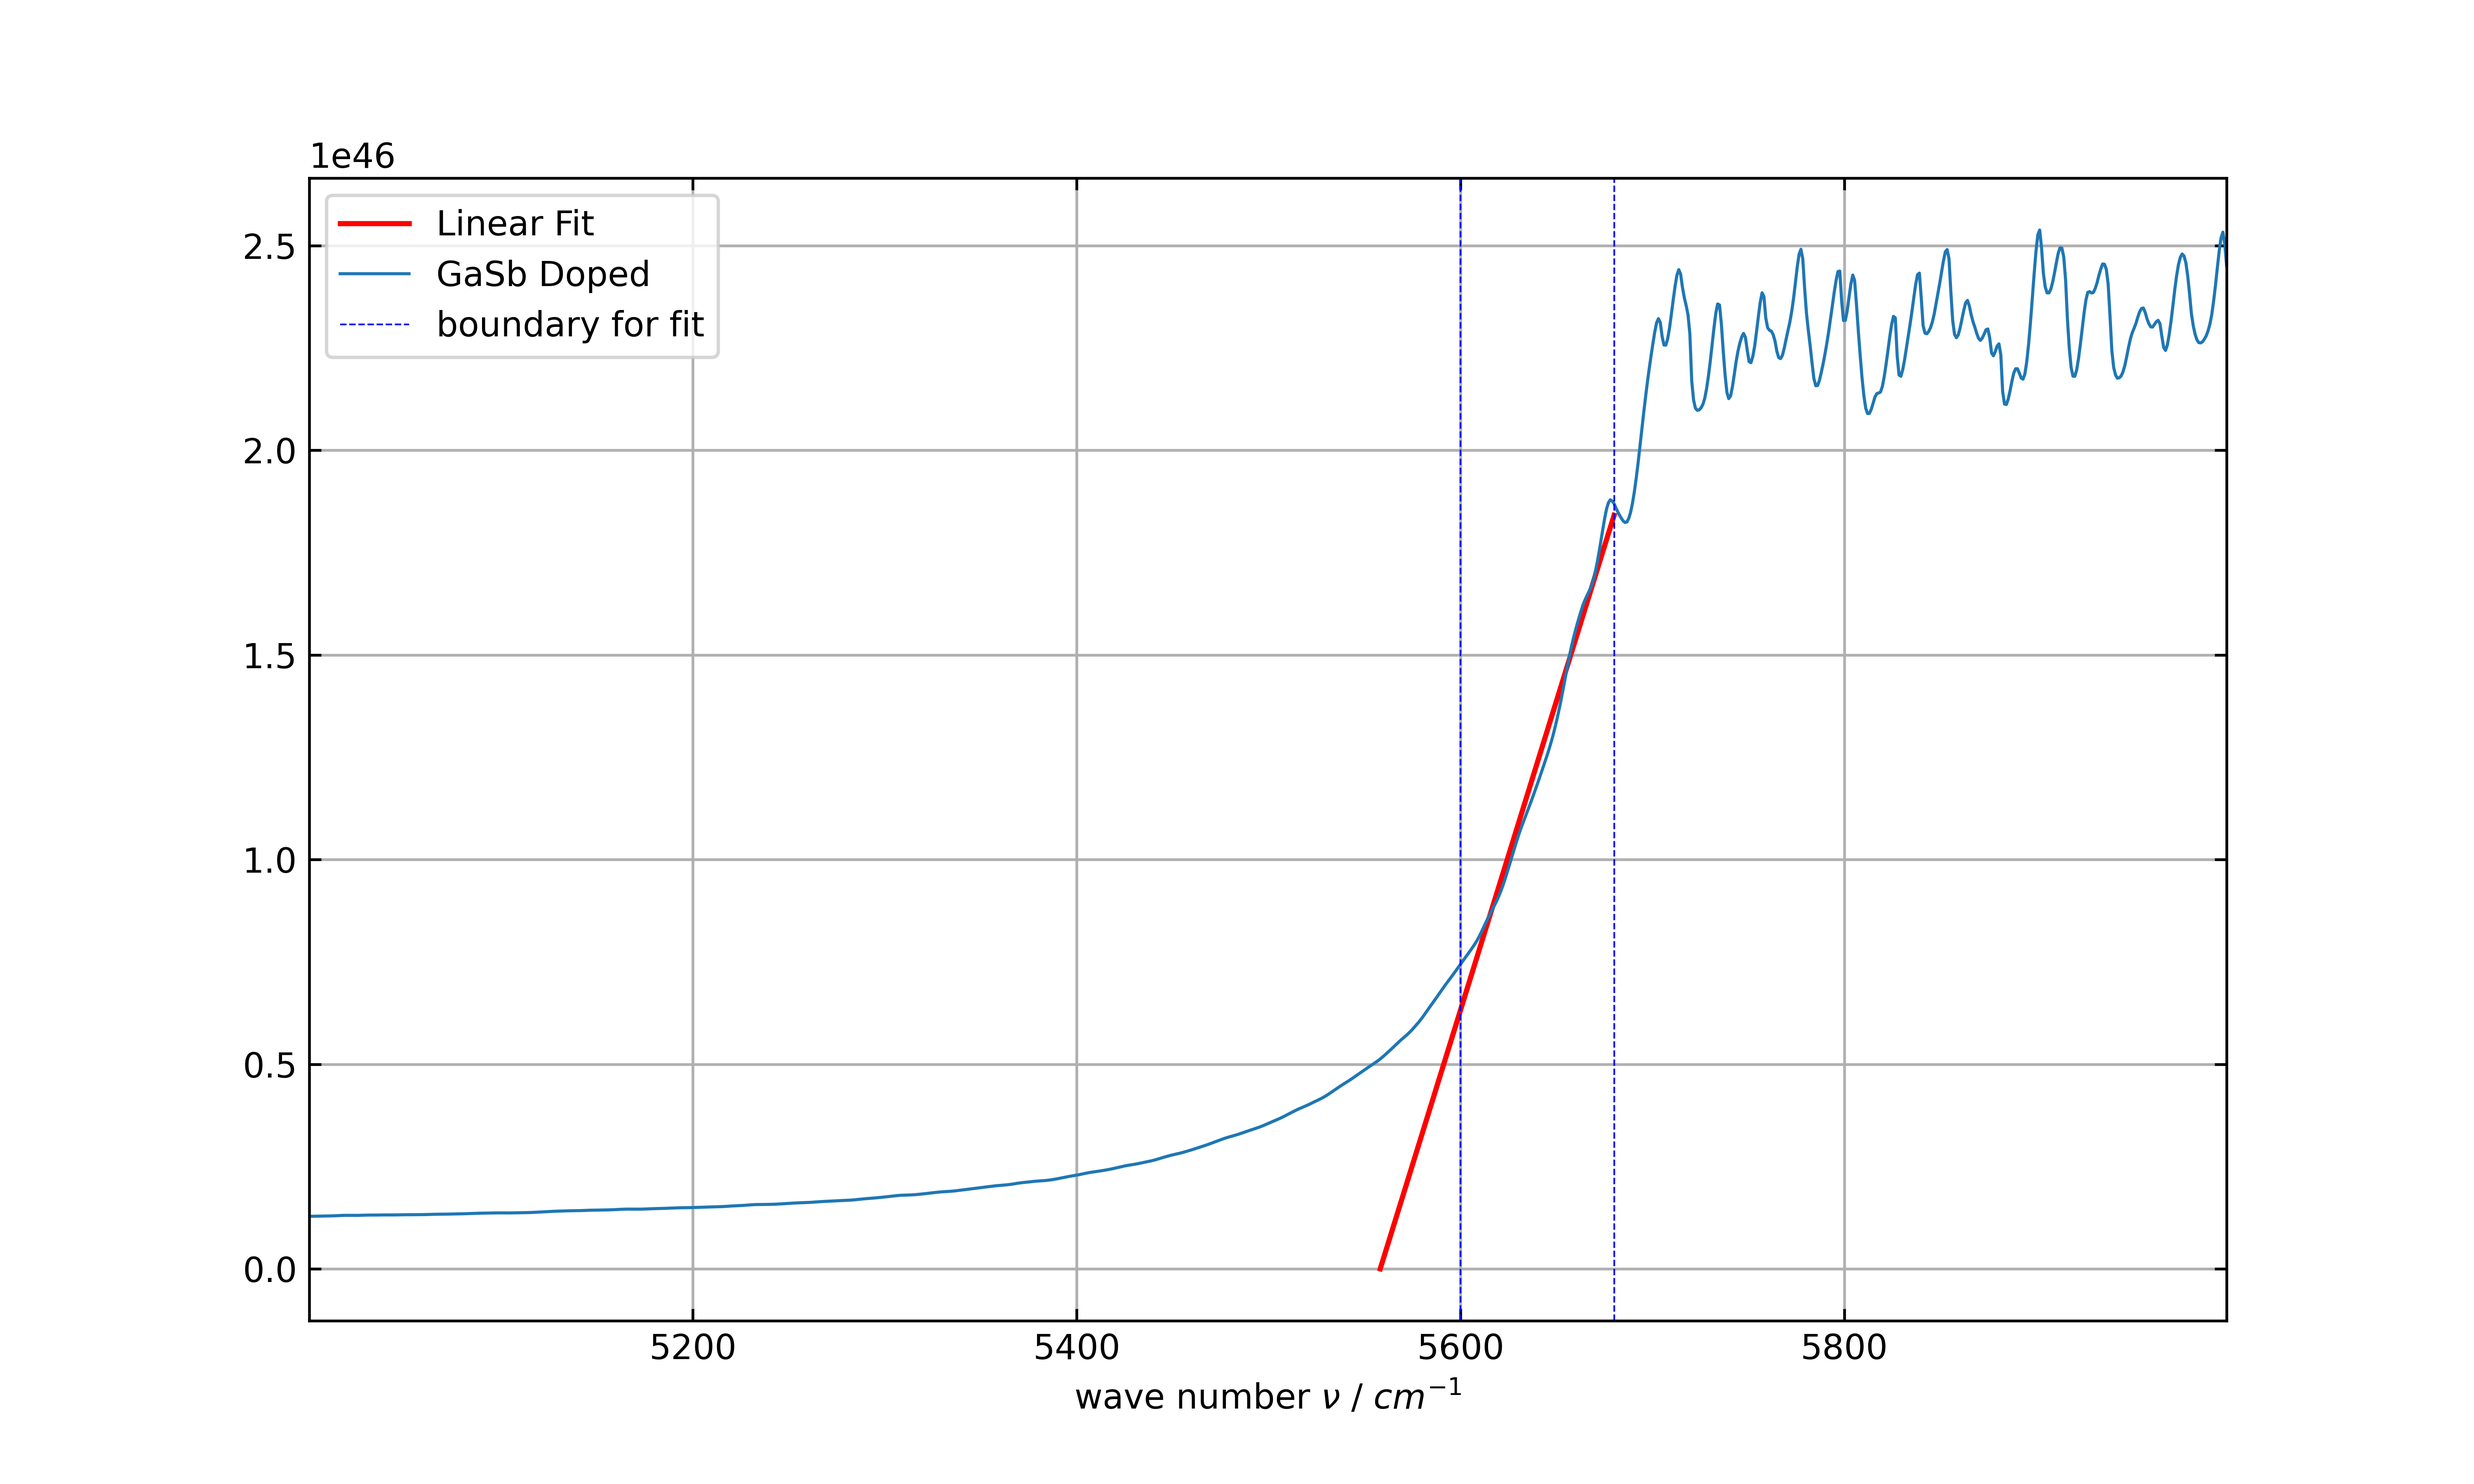
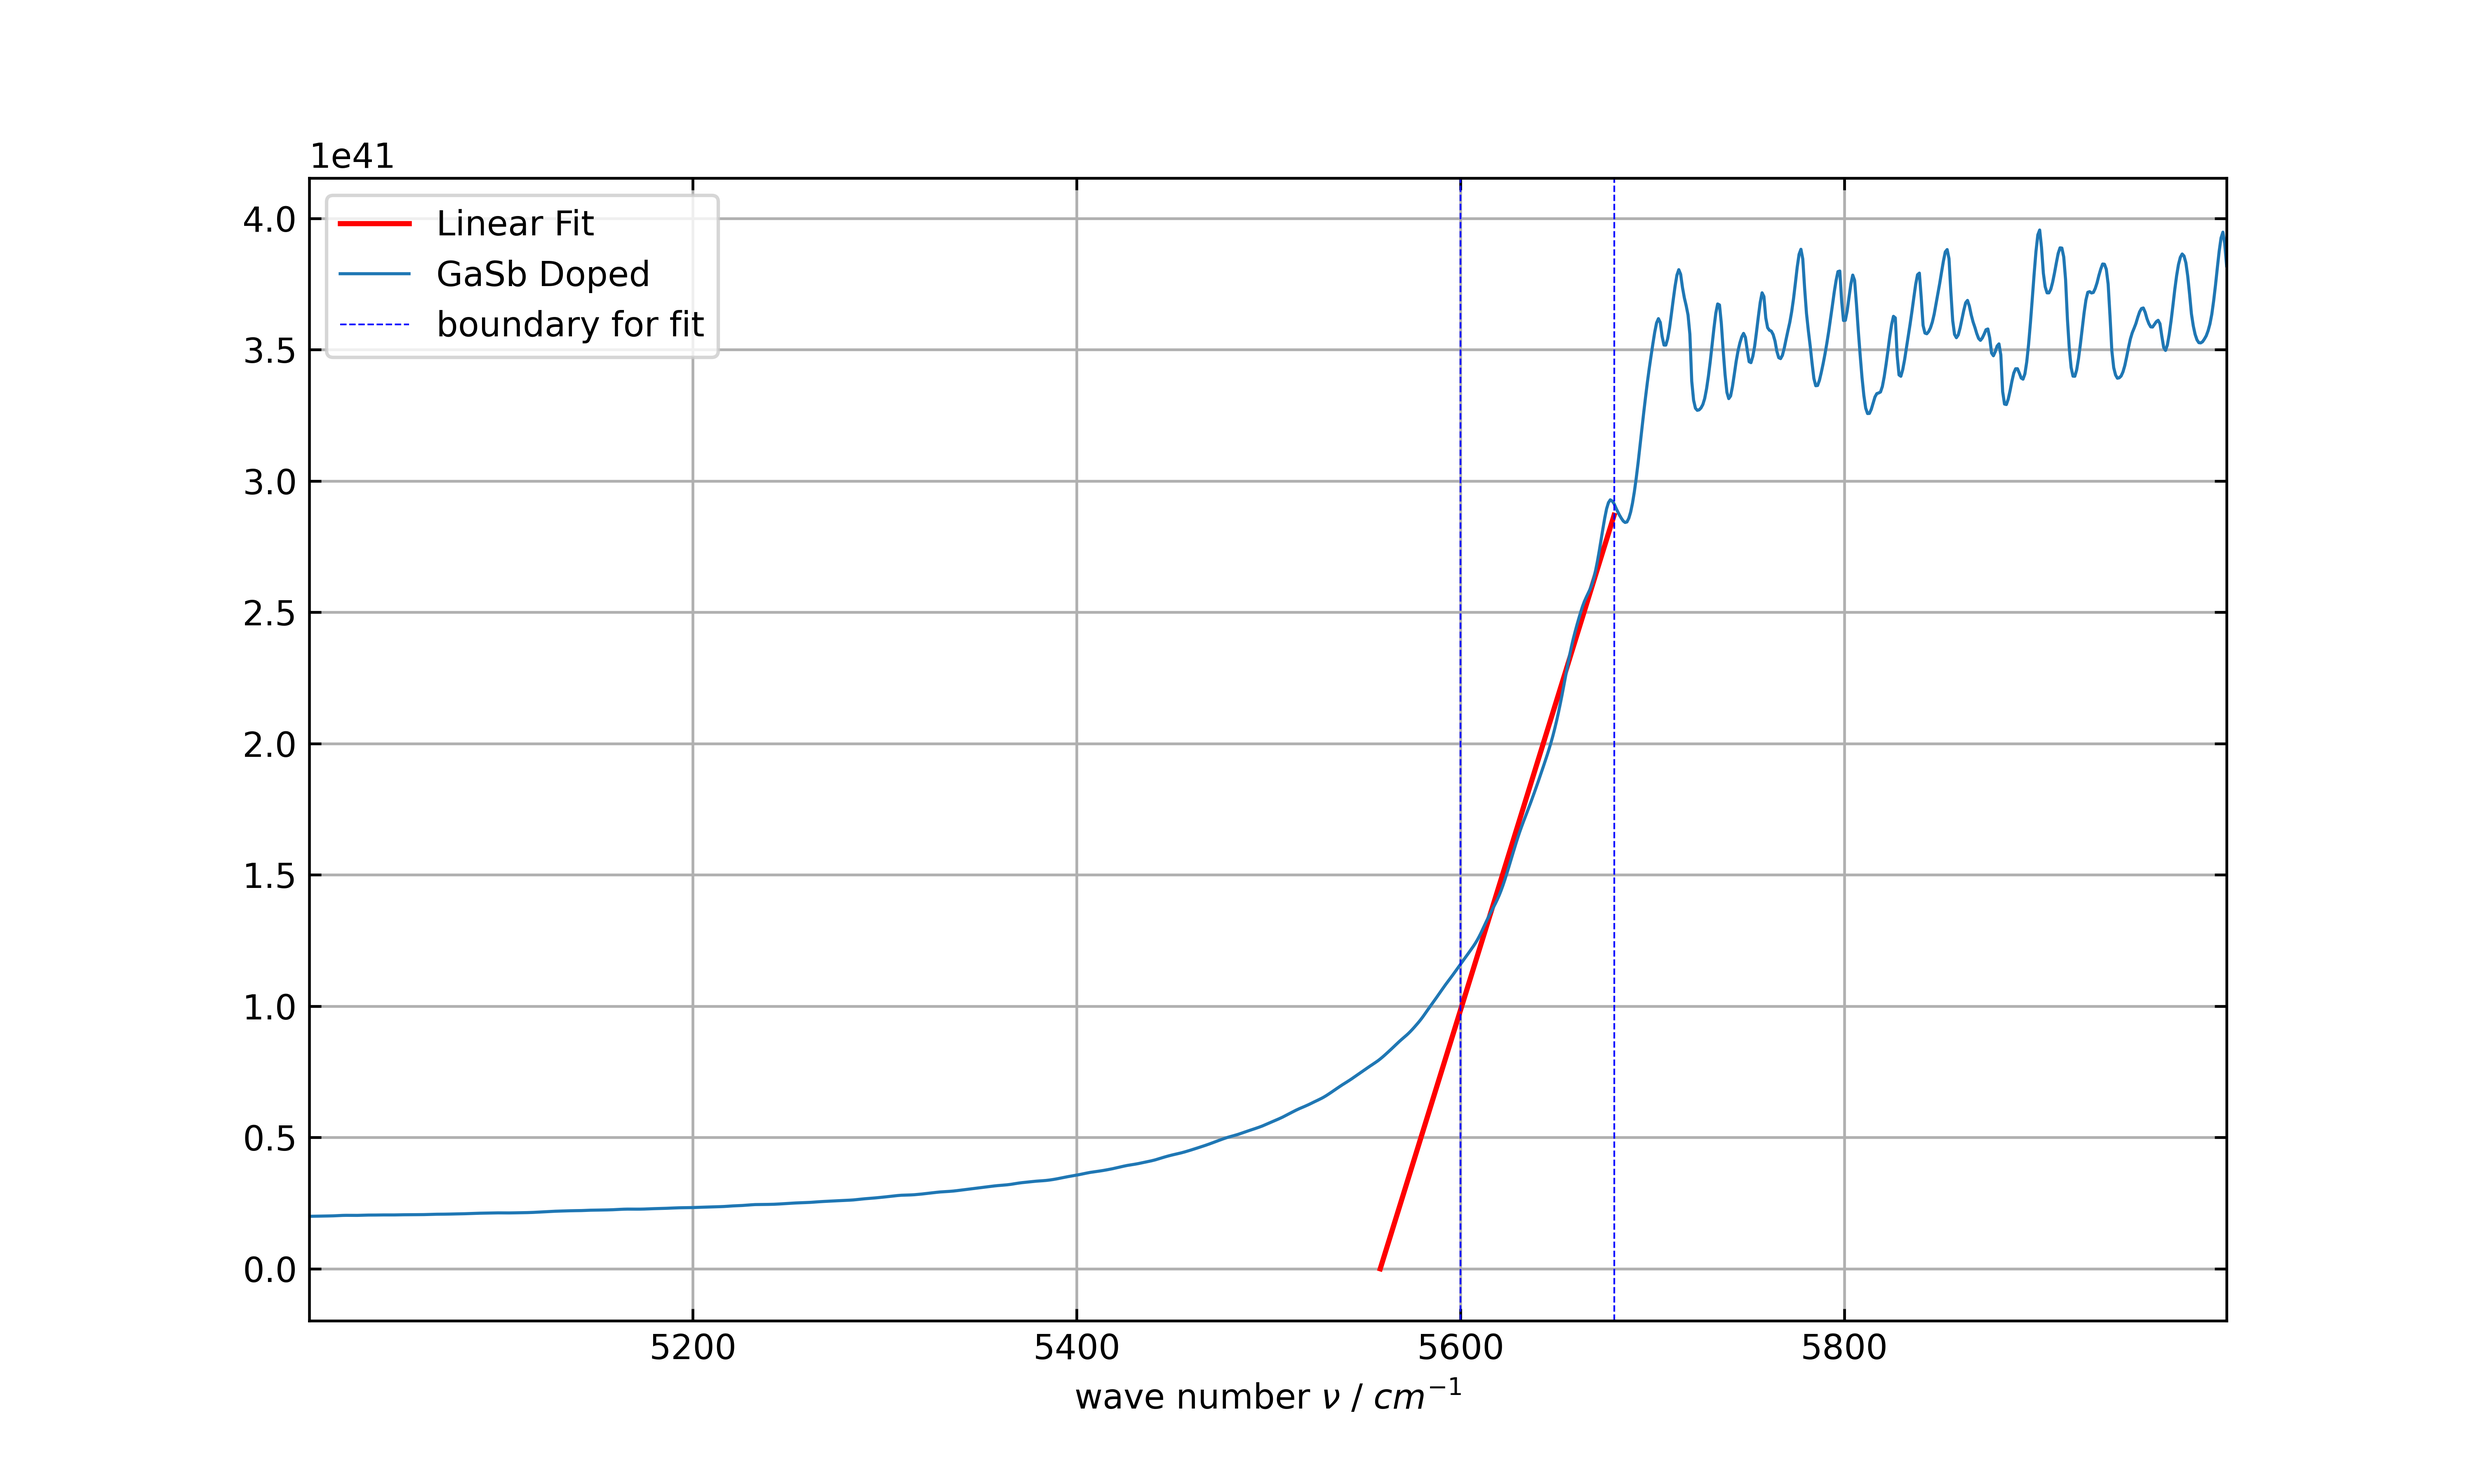
pulsematrix Element

diff --git a/SolidStateOptics/exp4.py b/SolidStateOptics/exp4.py
@@ -36,6 +36,8 @@ transmissionSiUnDo = read_dpt_file(r'.\SolidStateOptics\RawData\Transmission_ex4
 reflectionSiDo = read_dpt_file(r'.\SolidStateOptics\RawData\Reflection_ex4\refl_Si_doped_res4_N50_normalized.DPT')
 transmissionSiDo = read_dpt_file(r'.\SolidStateOptics\RawData\Transmission_ex4\Si_doped_res4_N50_normalized.DPT')
 
+d_SiDo = 500*10**-6
+
 samplesOhneSiUn = [
     (reflectionSiUnDo, transmissionSiUnDo, "Si Undoped", 530*10**-6),
         (reflectionGaSbDo, transmissionGaSbDo, "GaSb Doped", 500*10**-6),
@@ -56,7 +58,7 @@ def equations(vars, T_fabry_perot_value, R_fabry_perot_value, d):
     return [T_fabry_perot(vars, T_fabry_perot_value, d), R_fabry_perot(vars, R_fabry_perot_value, d)]
 
 
-def calculate_k_beta_and_R(ReflectionData, TransmissionData, d):
+def calculate_nu_beta_and_R(ReflectionData, TransmissionData, d):
     k_beta_R_List = []
     for r, t in zip(bügeln(ReflectionData,1), bügeln(TransmissionData,1)):
         initial_guess = k_beta_R_List[-1][1:] if k_beta_R_List else [10000, 0.3]  # Use last beta and R or default
@@ -71,7 +73,7 @@ def calculate_k_beta_and_R(ReflectionData, TransmissionData, d):
 
 
 def calculate_kappa(ReflectionData, TransmissionData, d):
-    k_beta_R_List = calculate_k_beta_and_R(ReflectionData, TransmissionData, d)
+    k_beta_R_List = calculate_nu_beta_and_R(ReflectionData, TransmissionData, d)
     k_kappa_R_List = []
     for i in k_beta_R_List:
         k_kappa_R_List.append([i[0], i[1]/(2*i[0]*100), i[2]]) # 100 wegen cm^-1
@@ -105,7 +107,7 @@ def plot_the_betas(title="foo", glättwert=1):
     plt.figure()
     for reflection, transmission, label, d in samplesOhneSiUn:
         beta = []
-        for i in calculate_k_beta_and_R(bügeln(reflection, glättwert), bügeln(transmission, glättwert), d):
+        for i in calculate_nu_beta_and_R(bügeln(reflection, glättwert), bügeln(transmission, glättwert), d):
             beta.append([i[0], i[1]/100])
         plot_data(beta, label=label)
         plt.xlabel(r'wave number $\nu$ / ' + r'$cm^{-1}$')
@@ -133,7 +135,7 @@ def plot_the_kappas(title="foo", glättwert = 1):
     save_and_open(filename=title)
     
     
-def calculate_k_epsilon_2(reflection, transmission, d):
+def calculate_nu_epsilon_2(reflection, transmission, d):
     k_n_kappa = calculate_k_n1_kappa(reflection, transmission, d)
     epsilon_2 = []
     for i in k_n_kappa:
@@ -149,11 +151,11 @@ def k_chopper(data, k_min, k_max):
 
 def calculate_KomischeFunktion(reflection, transmission, d):
     
-    k_epsilon_2 = calculate_k_epsilon_2(reflection, transmission, d)
+    nu_epsilon_2 = calculate_nu_epsilon_2(reflection, transmission, d)
     
     komischeFunktion = []
-    for k, epsilon_2 in k_epsilon_2:
-        komischeFunktion.append([k, (epsilon_2*c**2*k**2)**2])
+    for nu, epsilon_2 in nu_epsilon_2:
+        komischeFunktion.append([nu, (epsilon_2*c**2*nu**2*4*np.pi**2/(100**2))**2])
     return komischeFunktion
 
 
@@ -175,7 +177,10 @@ def plotKomischeFunktion(reflection, transmission, k_min, k_max, k_min_regressio
     plt.legend()
     plt.axvline(x=k_max_regression, color='blue', linestyle='--', linewidth =0.5)
     
-    writeLatexMacro('bandgap_' + title, x_intercept*100*c*hbar/e*2*np.pi, 'eV')
+    pulseMatrixElement = np.sqrt(steig/factor)
+    writeLatexMacro('pulseMatrixElement_' + title.replace(' ','_'), pulseMatrixElement, '??')
+    
+    writeLatexMacro('bandgap_' + title.replace(' ','_'), x_intercept*100*c*hbar/e*2*np.pi, 'eV')
     
     plt.xlabel(r'wave number $\nu$ / ' + r'$cm^{-1}$')    
     save_and_open(filename=title)
@@ -203,10 +208,10 @@ def linear_regression(komischeFunktion):
     
 def calculate_komische_indirect_function(reflection, transmission, d):    
     komischeFunktion = []
-    for i in calculate_k_beta_and_R(reflection, transmission, d):
-        k = i[0]
+    for i in calculate_nu_beta_and_R(reflection, transmission, d):
+        nu = i[0]
         beta = i[1]/100+1 #convert to cm^-1 and make sure beta is posivive (constant shift of 1), negative beta is not physical
-        komischeFunktion.append([k, np.sqrt(beta)*k*c])
+        komischeFunktion.append([nu, np.sqrt(beta)*nu*c*2*np.pi])
     return komischeFunktion
 
 def plotKomischeIndirectFunction(reflection, transmission, d, k_min, k_max, k1_min_regression, 
@@ -237,6 +242,8 @@ def plotKomischeIndirectFunction(reflection, transmission, d, k_min, k_max, k1_m
     
     bandgap = (x_intercept1+x_intercept2)/2*100*c*hbar/e*2*np.pi
     writeLatexMacro("bandgap_" + title, bandgap, 'eV')
+    hquerOMEGA = (x_intercept2-x_intercept1)/2*100*c*hbar/e*2*np.pi
+    writeLatexMacro("hquerOMEGA_" + title, hquerOMEGA, 'eV')
     
     plt.legend()
     
@@ -260,16 +267,9 @@ def plotKomischeIndirectFunction(reflection, transmission, d, k_min, k_max, k1_m
 # save_and_open(filename="SiUnDo_beta_plot")
 
 
-plotKomischeIndirectFunction(reflectionSiUnDo, transmissionSiUnDo, d=530*10**-6, k_min=7500, k_max=11000,
-                             k1_min_regression=8450, k1_max_regression=9100, k2_min_regression=9450, k2_max_regression=10200,
-                             glättwert=0.01, title="foo")
-
-
-
-
-
-
-
+#plotKomischeIndirectFunction(reflectionSiUnDo, transmissionSiUnDo, d=530*10**-6, k_min=7500, k_max=11000,
+#                              k1_min_regression=8450, k1_max_regression=9100, k2_min_regression=9450, k2_max_regression=10200,
+#                              glättwert=0.01, title="Si_Undoped")
 
 
 # plot_the_kappas(glättwert=0.9, title="kappa")
@@ -278,10 +278,10 @@ plotKomischeIndirectFunction(reflectionSiUnDo, transmissionSiUnDo, d=530*10**-6,
 
 # plot_the_ns(0.005)
 
-# plotKomischeFunktion(reflectionSiUnDo, transmissionSiUnDo, 9000, 11000, 10050, 10250, samplesOhneSiUn[0][3], glättwert=0.1, title="Si Undoped")
-# plotKomischeFunktion(reflectionGaSbDo, transmissionGaSbDo, 5000, 6000, 5600, 5680, samplesOhneSiUn[1][3], glättwert=0.1, title="GaSb Doped")
-# plotKomischeFunktion(reflectionGaAsUnDo, transmissionGaAsUnDo, 11000, 11400, 11230, 11280, samplesOhneSiUn[2][3], glättwert=0.1, title="GaAs Undoped")
-# plotKomischeFunktion(reflectionGaAsDo, transmissionGaAsDo, 10500, 12000, 11120, 11200, samplesOhneSiUn[3][3], glättwert=0.03, title="GaAs Doped")
+plotKomischeFunktion(reflectionSiUnDo, transmissionSiUnDo, 9000, 11000, 10050, 10250, samplesOhneSiUn[0][3], glättwert=0.1, title="Si Undoped")
+plotKomischeFunktion(reflectionGaSbDo, transmissionGaSbDo, 5000, 6000, 5600, 5680, samplesOhneSiUn[1][3], glättwert=0.1, title="GaSb Doped")
+plotKomischeFunktion(reflectionGaAsUnDo, transmissionGaAsUnDo, 11000, 11400, 11230, 11280, samplesOhneSiUn[2][3], glättwert=0.1, title="GaAs Undoped")
+plotKomischeFunktion(reflectionGaAsDo, transmissionGaAsDo, 10500, 12000, 11120, 11200, samplesOhneSiUn[3][3], glättwert=0.03, title="GaAs Doped")
 
 
 

diff --git a/Paper/macros.tex b/Paper/macros.tex
@@ -1,8 +1,14 @@
 \newcommand{\testOhneFehler}{1.235 \times 10^{8}\,\frac{1}{m}}
 \newcommand{\testMitFehler}{(1.23 \pm 0.20) \times 10^{8}\,\frac{1}{m}}
 \newcommand{\slope}{5.455 \times 10^{1}}
-\newcommand{\bandgap_GaAs Doped}{1.373 \times 10^{0}\,eV}
-\newcommand{\bandgap_GaAs Undoped}{1.389 \times 10^{0}\,eV}
-\newcommand{\bandgap_GaSb Doped}{6.891 \times 10^{-1}\,eV}
-\newcommand{\bandgap_Si Undoped}{1.227 \times 10^{0}\,eV}
 \newcommand{\snr_exponent}{4.967 \times 10^{-1}\,0.025032386348464462}
+\newcommand{\bandgap_foo}{-6.338 \times 10^{-1}\,eV}
+\newcommand{\hquerOMEGA_Si_Undoped}{5.200 \times 10^{-2}\,eV}
+\newcommand{\pulseMatrixElement_Si_Undoped}{1.296 \times 10^{-25}\,??}
+\newcommand{\bandgap_Si_Undoped}{1.227 \times 10^{0}\,eV}
+\newcommand{\pulseMatrixElement_GaSb_Doped}{8.500 \times 10^{-26}\,??}
+\newcommand{\bandgap_GaSb_Doped}{6.891 \times 10^{-1}\,eV}
+\newcommand{\pulseMatrixElement_GaAs_Undoped}{3.192 \times 10^{-25}\,??}
+\newcommand{\bandgap_GaAs_Undoped}{1.389 \times 10^{0}\,eV}
+\newcommand{\pulseMatrixElement_GaAs_Doped}{2.894 \times 10^{-25}\,??}
+\newcommand{\bandgap_GaAs_Doped}{1.373 \times 10^{0}\,eV}
